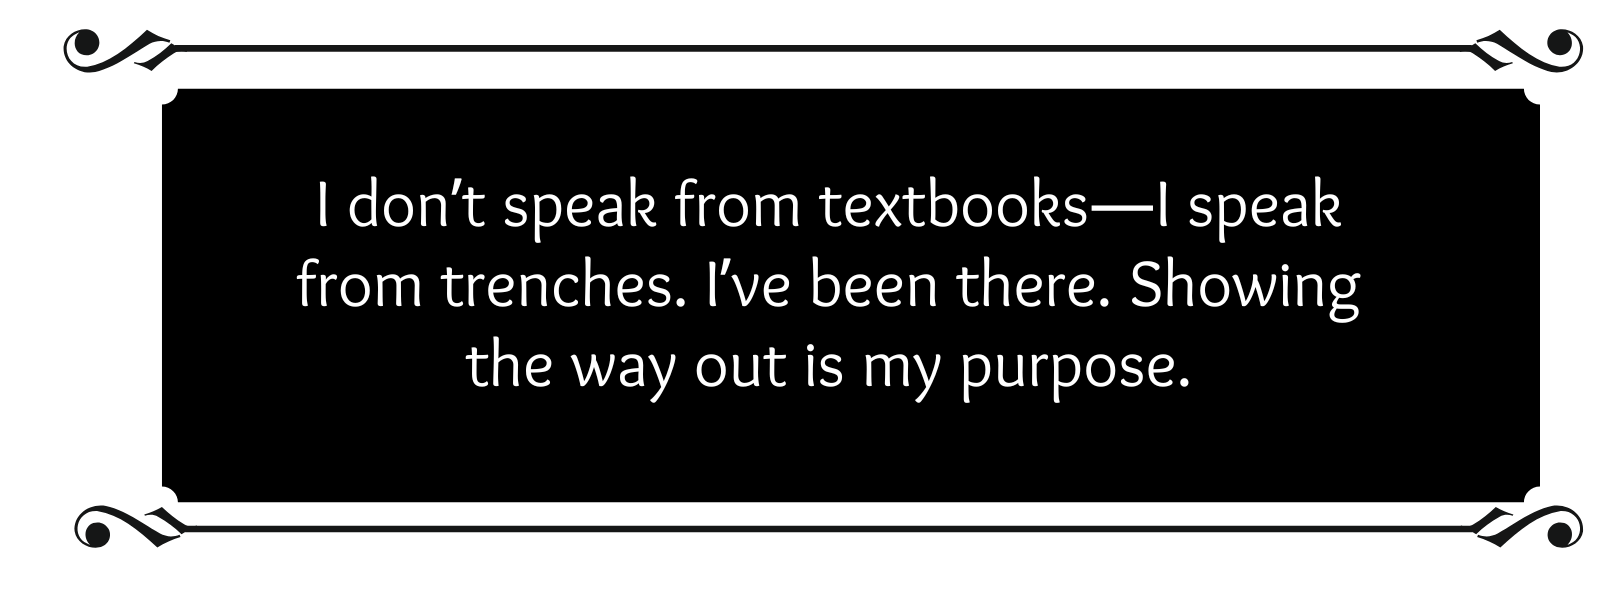
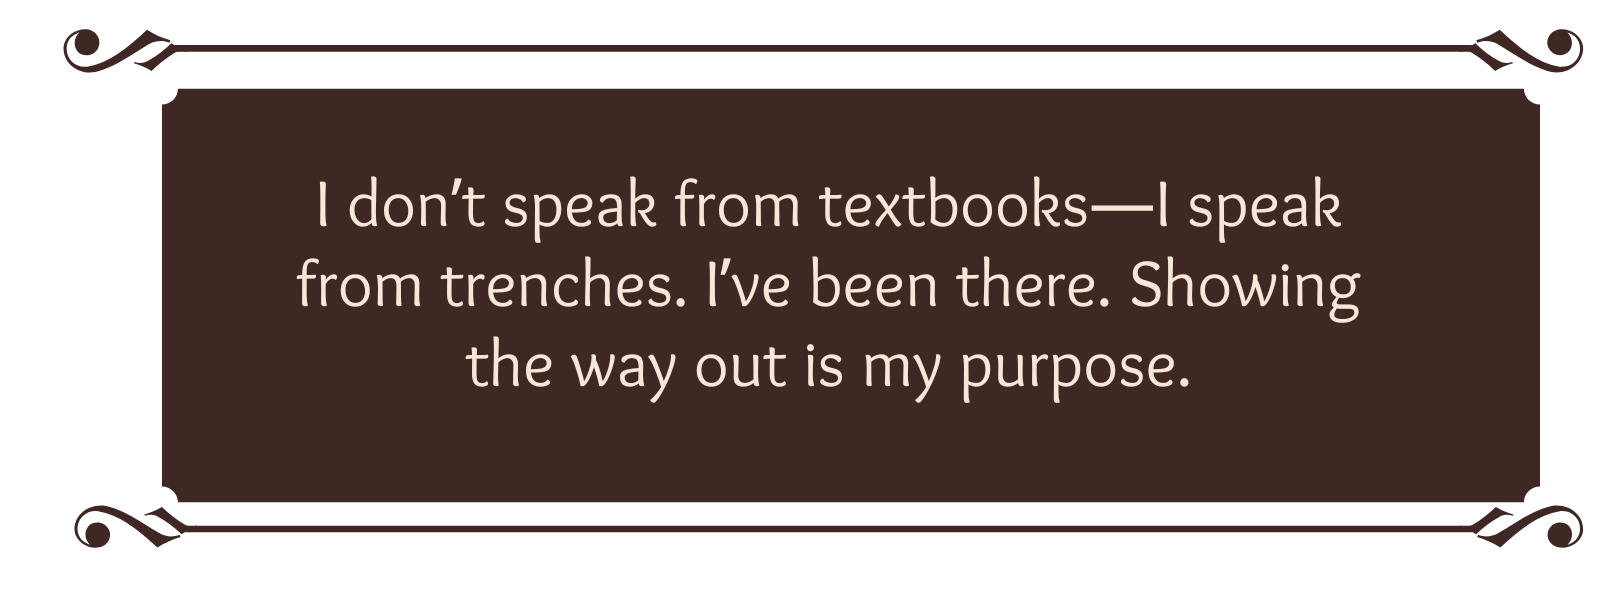
updates

diff --git a/src/components/Nav.tsx b/src/components/Nav.tsx
@@ -1,49 +1,51 @@
 "use client";
 import Link from "next/link";
 import { useState } from "react";
+import Image from "next/image";
 
 export default function Nav() {
   const [isOpen, setIsOpen] = useState(false);
 
   return (
-    <nav className="bg-black text-white px-4 py-5 w-full shadow-md">
+    <nav className="bg-[#3E2723] text-[#F6E7D7] px-5 py-4 w-full shadow-md">
       <div className="max-w-6xl mx-auto flex items-center justify-between relative">
+        {/* Logo on the left */}
+        <Link href="/" className="shrink-0">
+          <Image
+            src="/logo.png"
+            alt="Kelly Clark Coaching Logo"
+            width={160}
+            height={80}
+            className="object-contain"
+            priority
+          />
+        </Link>
+
         {/* Desktop Nav Centered */}
-        <ul className="hidden custom:flex gap-4 custom:gap-6 text-[10px] custom:text-xs md:text-sm font-condensed font-bold uppercase absolute left-1/2 -translate-x-1/2 whitespace-nowrap">
+        <ul className="hidden md:flex gap-9 custom:gap-6 text-[12px] custom:text-xs md:text-lg font-condensed font-bold uppercase absolute left-1/2 -translate-x-1/2 whitespace-nowrap">
           <li>
             <a
               href="https://calendly.com/mrs-kellyannclark/20-min-free-consultation-with-kelly-clark"
               target="_blank"
               rel="noopener noreferrer"
               onClick={() => setIsOpen(false)}
-              className="text-white hover:text-kelly transition duration-200 ease-in-out"
+              className="text-[#F6E7D7] hover:text-kelly transition duration-200 ease-in-out"
             >
               Free Consult
             </a>
           </li>
-          <li>
-            <a
-              href="https://calendly.com/mrs-kellyannclark/30min"
-              target="_blank"
-              rel="noopener noreferrer"
-              onClick={() => setIsOpen(false)}
-              className="text-white hover:text-kelly transition duration-200 ease-in-out"
-            >
-              Schedule Session
-            </a>
-          </li>
-          <li>
-            <Link
-              href="#coaching"
-              className="text-white hover:text-kelly transition duration-200 ease-in-out"
-            >
-              Services
-            </Link>
-          </li>
+
+          <Link
+            href="#coaching"
+            className="text-[#F6E7D7] hover:text-kelly transition duration-200 ease-in-out"
+          >
+            Services
+          </Link>
+
           <li>
             <Link
               href="#media"
-              className="text-white hover:text-kelly transition duration-200 ease-in-out"
+              className="text-[#F6E7D7] hover:text-kelly transition duration-200 ease-in-out"
             >
               Media / Book
             </Link>
@@ -51,7 +53,7 @@ export default function Nav() {
           <li>
             <Link
               href="#story"
-              className="text-white hover:text-kelly transition duration-200 ease-in-out"
+              className="text-[#F6E7D7] hover:text-kelly transition duration-200 ease-in-out"
             >
               Kelly&apos;s Story
             </Link>
@@ -59,10 +61,10 @@ export default function Nav() {
         </ul>
 
         {/* Contact Me Button (Right side) */}
-        <div className="hidden custom:block ml-auto">
+        <div className="hidden md:block ml-auto">
           <Link
             href="/contact"
-            className="bg-white text-black px-4 py-2 rounded font-semibold text-xs custom:text-sm uppercase hover:bg-gray-200 transition"
+            className="bg-[#F6E7D7] text-[#3E2723] px-4 py-2 rounded font-semibold text-lg custom:text-sm uppercase hover:bg-gray-200 transition"
           >
             Contact Me
           </Link>
@@ -70,7 +72,7 @@ export default function Nav() {
 
         {/* Hamburger Icon aligned right */}
         <button
-          className="custom:hidden text-white ml-auto"
+          className="md:hidden text-[#F6E7D7] ml-auto"
           onClick={() => setIsOpen(!isOpen)}
           aria-label="Toggle navigation"
         >
@@ -81,28 +83,23 @@ export default function Nav() {
             viewBox="0 0 24 24"
             xmlns="http://www.w3.org/2000/svg"
           >
-            {isOpen ? (
-              <path
-                strokeLinecap="round"
-                strokeLinejoin="round"
-                strokeWidth={2}
-                d="M6 18L18 6M6 6l12 12"
-              />
-            ) : (
-              <path
-                strokeLinecap="round"
-                strokeLinejoin="round"
-                strokeWidth={2}
-                d="M4 6h16M4 12h16M4 18h16"
-              />
-            )}
+            <path
+              strokeLinecap="round"
+              strokeLinejoin="round"
+              strokeWidth={2}
+              d={
+                isOpen
+                  ? "M6 18L18 6M6 6l12 12"
+                  : "M4 6h16M4 12h16M4 18h16"
+              }
+            />
           </svg>
         </button>
       </div>
 
       {/* Mobile Menu */}
       {isOpen && (
-        <ul className="custom:hidden flex flex-col items-center gap-4 mt-4 px-2 text-sm font-medium uppercase">
+        <ul className="md:hidden flex flex-col items-center gap-4 mt-4 px-2 text-sm font-medium uppercase">
           <li>
             <Link href="#story" onClick={() => setIsOpen(false)}>
               Kelly&apos;s Story
@@ -117,17 +114,6 @@ export default function Nav() {
               className="text-white hover:text-kelly transition duration-200 ease-in-out"
             >
               Free Consult
-            </a>
-          </li>
-          <li>
-            <a
-              href="https://calendly.com/mrs-kellyannclark/30min"
-              target="_blank"
-              rel="noopener noreferrer"
-              onClick={() => setIsOpen(false)}
-              className="text-white hover:text-kelly transition duration-200 ease-in-out"
-            >
-              Schedule Session
             </a>
           </li>
           <li>

diff --git a/src/components/KellysStory.tsx b/src/components/KellysStory.tsx
@@ -4,32 +4,25 @@ import Image from "next/image";
 export default function KellysStory() {
   return (
     <section id="story" className="relative px-4 sm:px-8 py-12 max-w-6xl mx-auto">
-      {/* Flex Row: Image + Main Text */}
-      <div className="flex flex-col md:flex-row items-start md:gap-8">
-        {/* Image */}
-        <div className="w-full md:w-1/2 mb-6 md:mb-0">
-          <Image
-            src="/kelly-story.png"
-            alt="Kelly Clark"
-            width={400}
-            height={200}
-            className="w-full h-auto rounded"
-          />
-        </div>
+      {/* Main Content */}
+      <div className="text-sm sm:text-base leading-relaxed text-gray-800 dark:text-gray-200 space-y-6">
+        {/* Image with float on desktop */}
+        <Image
+          src="/kelly-story.png"
+          alt="Kelly Clark"
+          width={300}
+          height={100}
+          className="w-full md:max-w-xs h-auto rounded mb-6 md:float-left md:mr-8 md:mb-2"
+          priority
+        />
 
-        {/* Text next to image */}
-        <div className="w-full md:w-1/2 text-sm sm:text-base leading-relaxed text-gray-800 dark:text-gray-200 space-y-6">
-          <p>
-            For 27 years, I struggled with addiction—drugs, alcohol, food, depression, anxiety, and deep-rooted trauma. These battles brought me to the lowest point in my life. I became homeless and lost everything, including my sense of worth and identity. I carried a broken belief that I was uniquely broken—too damaged, too different, and ultimately unworthy of being saved.
-          </p>
-          <p>
-            But after hitting rock bottom, something within me shifted. In the depths of my despair, I finally turned to my loving and merciful Creator—a Higher Power I didn’t trust or even believe in before. Over the past decade, God has lovingly restored my soul.
-          </p>
-        </div>
-      </div>
-
-      {/* Full Width Section BELOW the image */}
-      <div className="mt-10 text-left text-sm sm:text-base leading-relaxed text-gray-800 dark:text-gray-200 space-y-6">
+        {/* Paragraphs wrap around the image */}
+        <p>
+          For 27 years, I struggled with addiction—drugs, alcohol, food, depression, anxiety, and deep-rooted trauma. These battles brought me to the lowest point in my life. I became homeless and lost everything, including my sense of worth and identity. I carried a broken belief that I was uniquely broken—too damaged, too different, and ultimately unworthy of being saved.
+        </p>
+        <p>
+          But after hitting rock bottom, something within me shifted. In the depths of my despair, I finally turned to my loving and merciful Creator—a Higher Power I didn’t trust or even believe in before. Over the past decade, God has lovingly restored my soul.
+        </p>
         <p>
           <strong>Addiction was my Goliath. And I could not have overcome it on my own.</strong>
         </p>
@@ -39,6 +32,10 @@ export default function KellysStory() {
         <p>
           These tools include spiritual practices, mindset shifts, daily accountability, and moments of surrender—small, consistent acts of faith that open the door to miracles. I now live to share these tools with others, to walk alongside them as they discover that same power for themselves.
         </p>
+      </div>
+
+      {/* Full Width Section BELOW the image */}
+      <div className="mt-10 text-left text-sm sm:text-base leading-relaxed text-gray-800 dark:text-gray-200 space-y-6">
         <p>
           I am a faithful member of The Church of Jesus Christ of Latter-day Saints, and I currently serve as an addiction recovery missionary alongside my husband, Weston, in the Church’s Addiction Recovery Program. It is one of the greatest honors of my life to witness lives being changed through spiritual connection, community, and Christ-centered recovery.
         </p>
@@ -49,6 +46,20 @@ export default function KellysStory() {
           <strong>Miracles are real. Change is possible. And I’m living proof.</strong>
         </p>
       </div>
+      {/* Spacer + YouTube Video */}
+<div className="mt-16 mb-12 w-full">
+  <div className="relative pb-[56.25%] h-0 overflow-hidden rounded-lg shadow-lg">
+    <iframe
+      className="absolute top-0 left-0 w-full h-full"
+      src="https://www.youtube.com/embed/UjlBTK-QJ8I"
+      title="Kelly Clark Recovery Coaching Intro"
+      frameBorder="0"
+      allow="accelerometer; autoplay; clipboard-write; encrypted-media; gyroscope; picture-in-picture"
+      allowFullScreen
+    />
+  </div>
+</div>
+
     </section>
   );
 }

diff --git a/src/components/Coaching.tsx b/src/components/Coaching.tsx
@@ -16,9 +16,20 @@ export default function Coaching() {
             >
               What is Recovery Coaching?
             </h2>
-            <p>
-              Recovery coaching is real, personalized support from someone who’s walked through the darkness of addiction and come out the other side. It’s not about checking boxes or reciting clinical advice—it’s about being met exactly where you are, by someone who understands the chaos, the shame, the cycles, and the quiet desperation that often comes with substance use and damaging behaviors.
-            </p>
+            <div className="space-y-6">
+      <p>
+        Recovery coaching is real, personalized support from someone who’s walked through the darkness of addiction and come out the other side. It’s not about checking boxes or reciting clinical advice—it’s about being met exactly where you are, by someone who understands the chaos, the shame, the cycles, and the quiet desperation that often comes with substance use and damaging behaviors.
+      </p>
+
+      <p>
+        <strong>With over ten years of experience working one-on-one with individuals overcoming addiction as well as leading group recovery meetings</strong>, I understand that recovery isn’t one-size-fits-all. Together, we’ll create a roadmap tailored to you—one that honors your story, your pace, and your vision for the future. This is your journey, but you don’t have to do it alone.
+      </p>
+
+      <p>
+        As your recovery coach, I bring lived experience. I’ve known the weight of addiction, the pain of isolation, and the fear of change. I’ve also experienced the miracle of transformation, and I believe deeply that it’s possible for you too.
+      </p>
+    </div>
+
           </div>
         </div>
 
@@ -36,12 +47,7 @@ export default function Coaching() {
 
       {/* Full width text below image */}
       <div className="mt-10 text-left space-y-6 text-sm sm:text-base leading-relaxed text-gray-800 dark:text-gray-200">
-        <p>
-          <strong>With over ten years of experience working one-on-one with individuals overcoming addiction as well as leading group recovery meetings</strong>, I understand that recovery isn’t one-size-fits-all. Together, we’ll create a roadmap tailored to you—one that honors your story, your pace, and your vision for the future. This is your journey, but you don’t have to do it alone.
-        </p>
-        <p>
-          As your recovery coach, I bring lived experience. I’ve known the weight of addiction, the pain of isolation, and the fear of change. I’ve also experienced the miracle of transformation, and I believe deeply that it’s possible for you too.
-        </p>
+
         <p>
           I’ll help you recognize patterns that no longer serve you, uncover your strengths, and rebuild from a place of honesty and hope. Whether you’re just beginning to question your behaviors or you’ve already taken your first steps toward healing, coaching is a safe, judgment-free space to explore what’s next.
         </p>

diff --git a/src/app/page.tsx b/src/app/page.tsx
@@ -36,7 +36,7 @@ export default function Home() {
         </div>
 
         {/* Kelly's Story Section with Background */}
-<div className="w-full bg-[#EEF1F1] py-10">
+<div className="w-full bg-[#F6E7D7] py-10">
   <div className="relative w-full">
     <div className="relative z-10">
 
@@ -105,7 +105,7 @@ export default function Home() {
         </div>
 
     {/* Media + Book Section with Background */}
-<div className="w-full bg-[#EEF1F1] py-10">
+<div className="w-full bg-[#F6E7D7] py-10">
   
   {/* Media Carousel Section */}
   <div className="relative w-full py-6">
@@ -128,15 +128,7 @@ export default function Home() {
 
   {/* Book Section */}
   <div className="w-full py-6">
-    <div className="w-full px-4 mt-1 flex justify-center">
-      <Image
-        src="/header4.png"
-        alt="Header below Recovery Coaching"
-        width={200}
-        height={80}
-        className="w-auto h-auto"
-      />
-    </div>
+
 
     <div className="max-w-6xl mx-auto px-4 sm:px-8 mt-1">
       <Book />

diff --git a/src/components/Intro.tsx b/src/components/Intro.tsx
@@ -4,7 +4,7 @@ export default function Intro() {
   return (
     <section className="relative z-10 w-full px-4 sm:px-8 py-10 max-w-4xl mx-auto text-sm sm:text-base leading-relaxed text-gray-800 dark:text-gray-200">
     <h3 className="text-2xl sm:text-3xl mb-6" style={{ fontFamily: "'Alike', serif" }}>
-    There Is Hope Ahead
+    There Is Hope Ahead | Real Change is Possible
     </h3>
 
 

diff --git a/src/components/Footer.tsx b/src/components/Footer.tsx
@@ -1,6 +1,6 @@
 export default function Footer() {
     return (
-      <footer className="bg-black text-white text-xs text-center py-4">
+      <footer className="bg-[#3E2723] text-white text-xs text-center py-4">
        <p className="!text-white">
     &copy; {new Date().getFullYear()} Kelly Clark Coaching. All rights reserved.
   </p>

diff --git a/tailwind.config.js b/tailwind.config.js
@@ -12,7 +12,7 @@ module.exports = {
         softgray: "#eef1f1",
       },
       screens: {
-        'custom': '930px', // 👈 your custom breakpoint
+        'custom': '900px', // 👈 your custom breakpoint
       },
     },
   },
